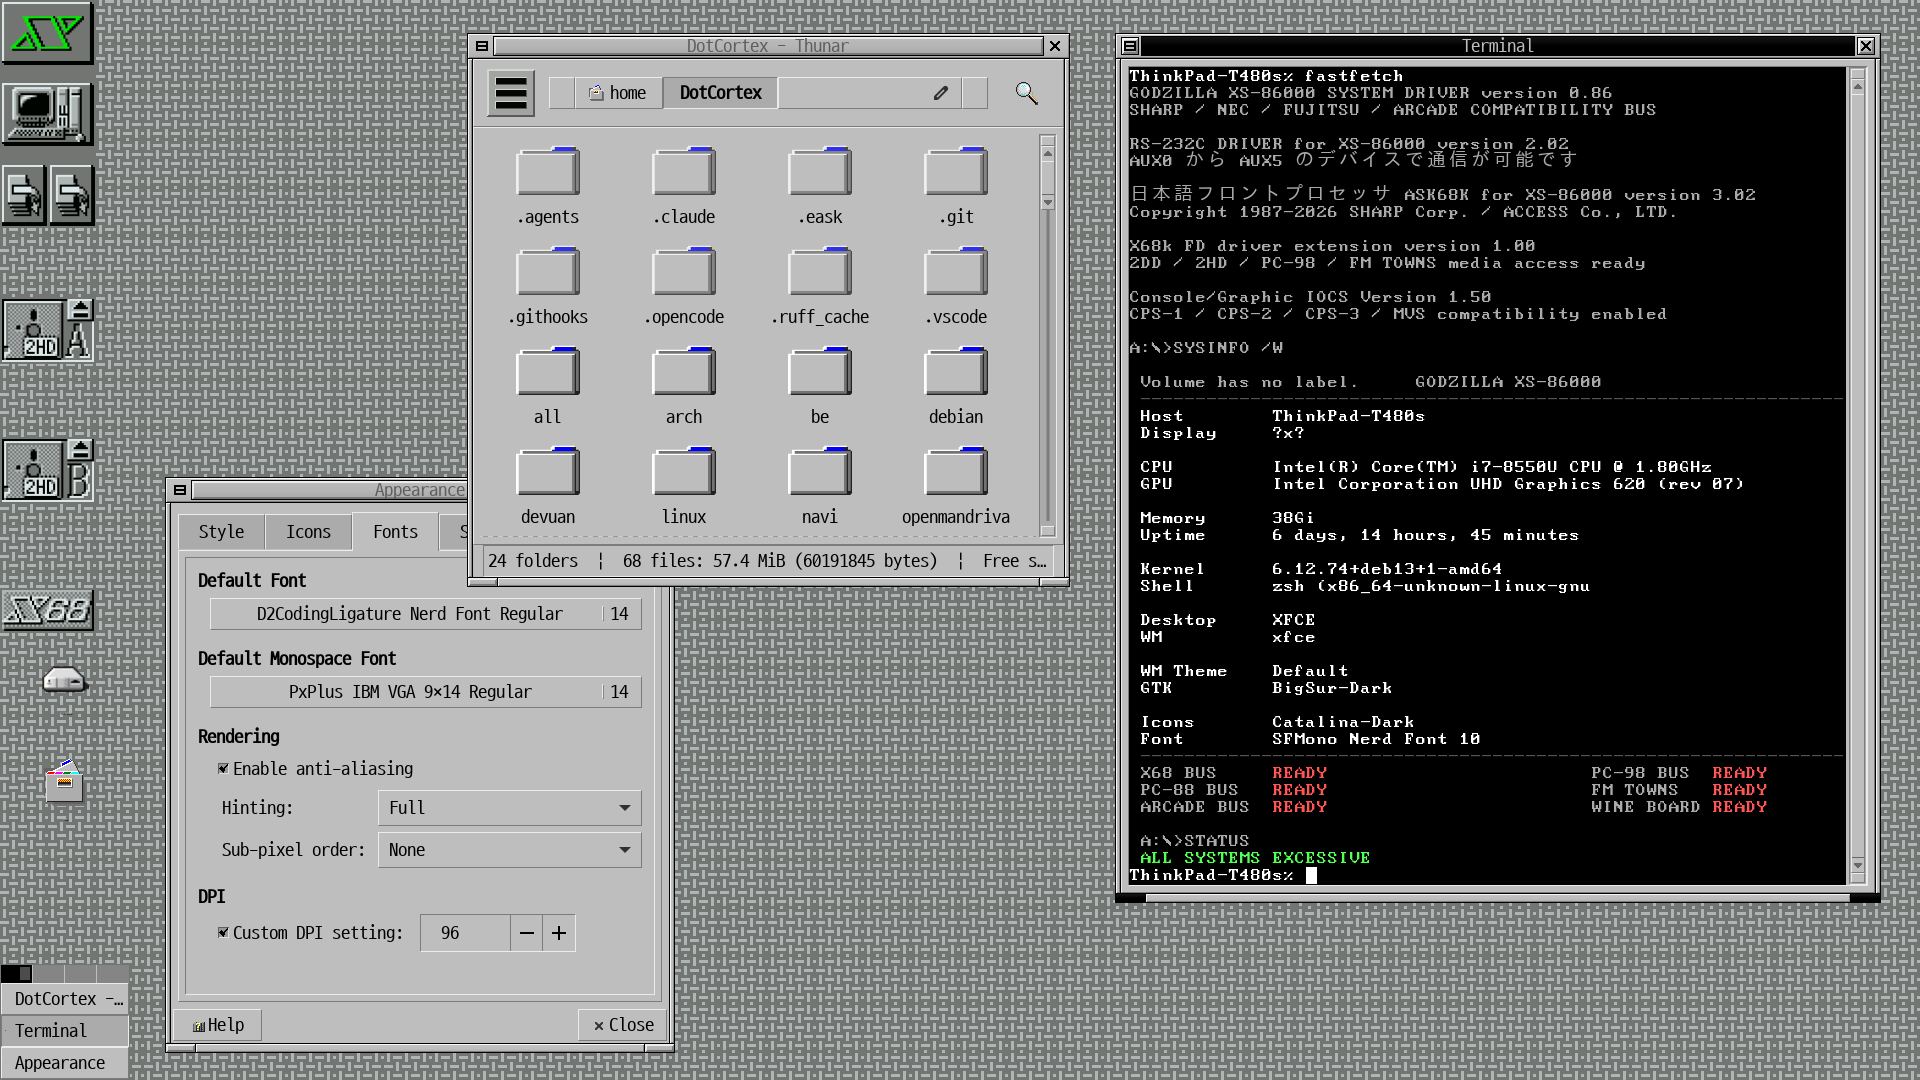
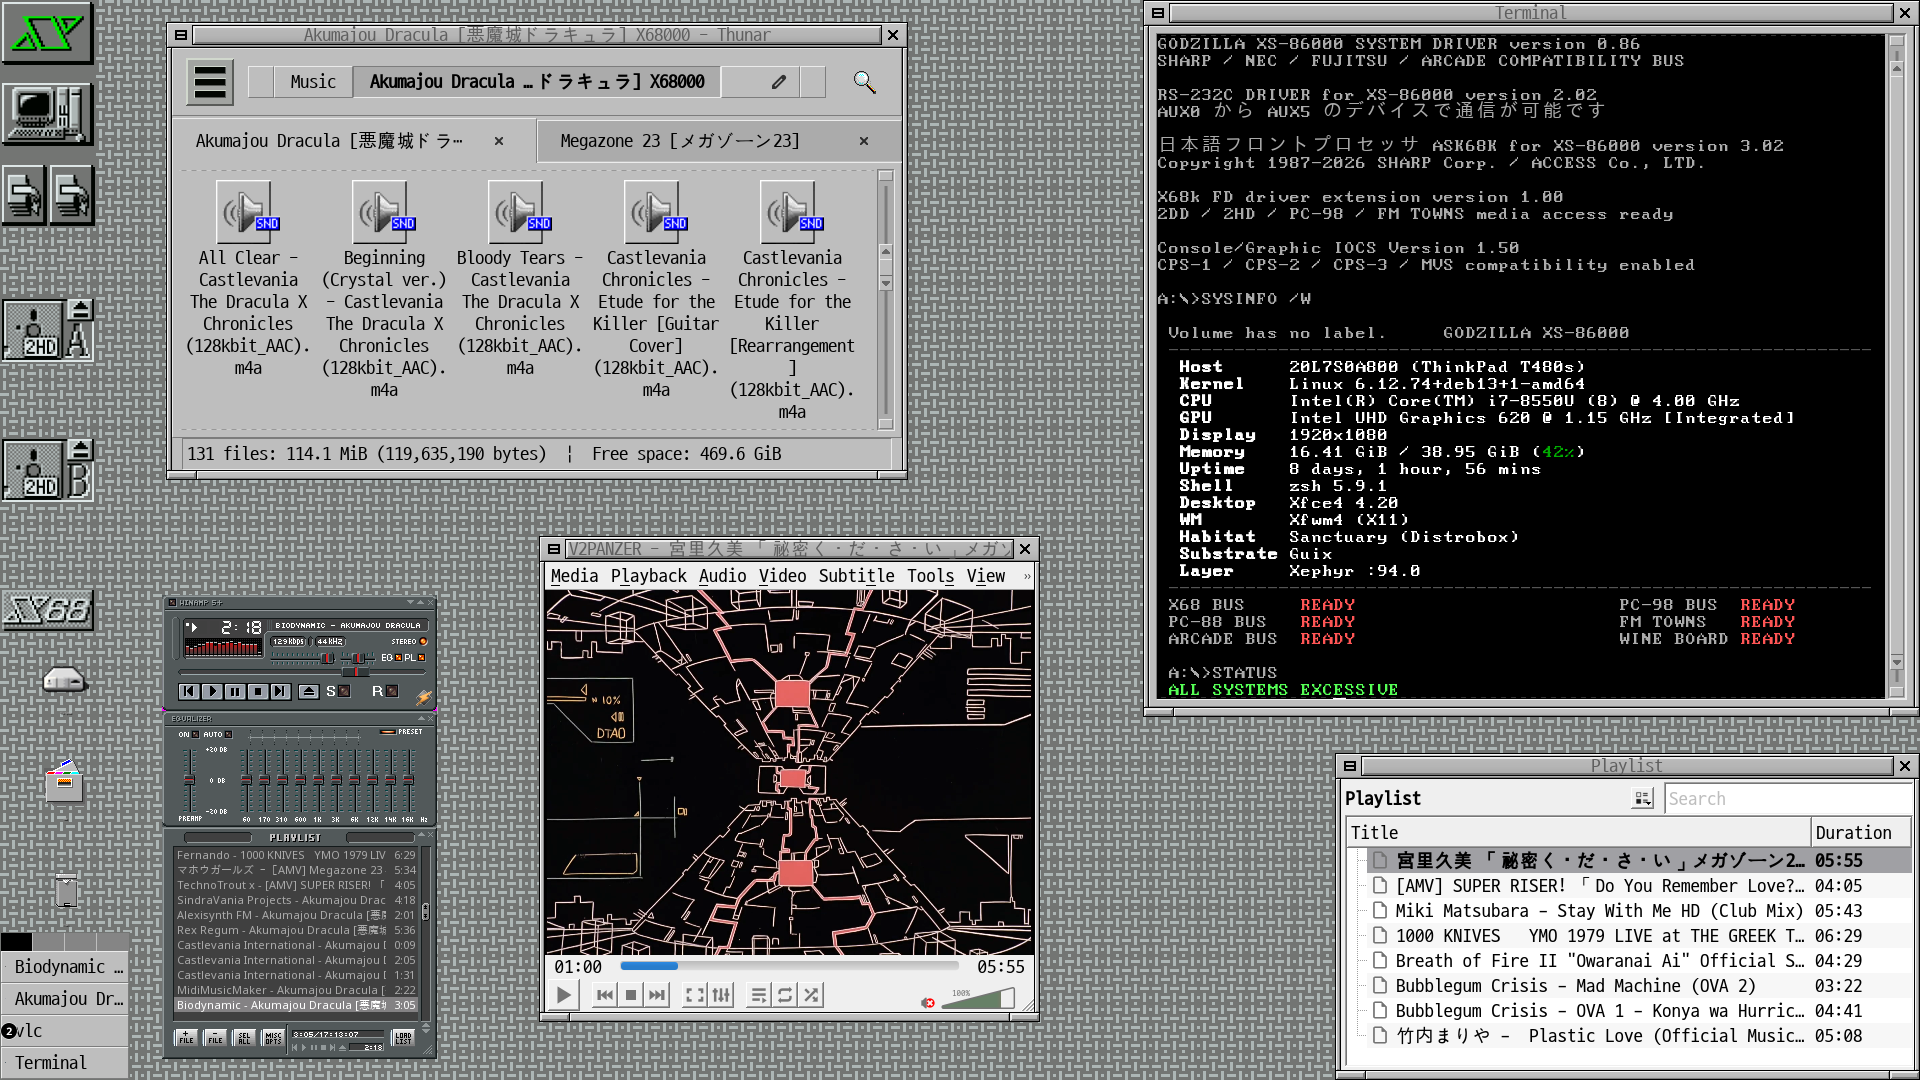
fix(www): Godzilla page — swap in the actual r/unixporn screenshot

diff --git a/www/content/sanctuaries/godzilla-xs-86000/index.md b/www/content/sanctuaries/godzilla-xs-86000/index.md
@@ -7,7 +7,7 @@ weight: 1
 
 The Godzilla XS-86000 is the visible identity of `sanctuary-sx` — a habitat rooted in the visual culture of the Sharp X68000: Human68k, SX-Window, and the Japanese workstation grammar of the early 1990s. The chassis is XFCE, shaped by hand until it stopped looking like XFCE; the soul is a machine Sharp never quite built.
 
-![The Godzilla XS-86000 desktop — grey dither workspace, SX-Window bevels, and the system driver reporting all buses ready](godzilla-desktop.png)
+![The Godzilla XS-86000 desktop as posted on r/unixporn — Winamp mid-track, Castlevania Chronicles in the music library, an AMV playing, and the system driver reporting all buses ready](godzilla-desktop.png)
 
 The fastfetch banner tells you what you are looking at: *GODZILLA XS-86000 SYSTEM DRIVER — SHARP / NEC / FUJITSU / ARCADE COMPATIBILITY BUS*. Under the identity runs a full period-machine harbour: the X68 bus for Sharp X68000 software under XEiJ, a PC-98 drive for NEC's parallel universe, a PC-88 drive beneath that, FM Towns for CD-ROM multimedia, a MAME arcade bus with the classic system boards, and a Wine compatibility board for Japanese PC software that never left Japan. Status line on boot: `ALL SYSTEMS EXCESSIVE`.
 
